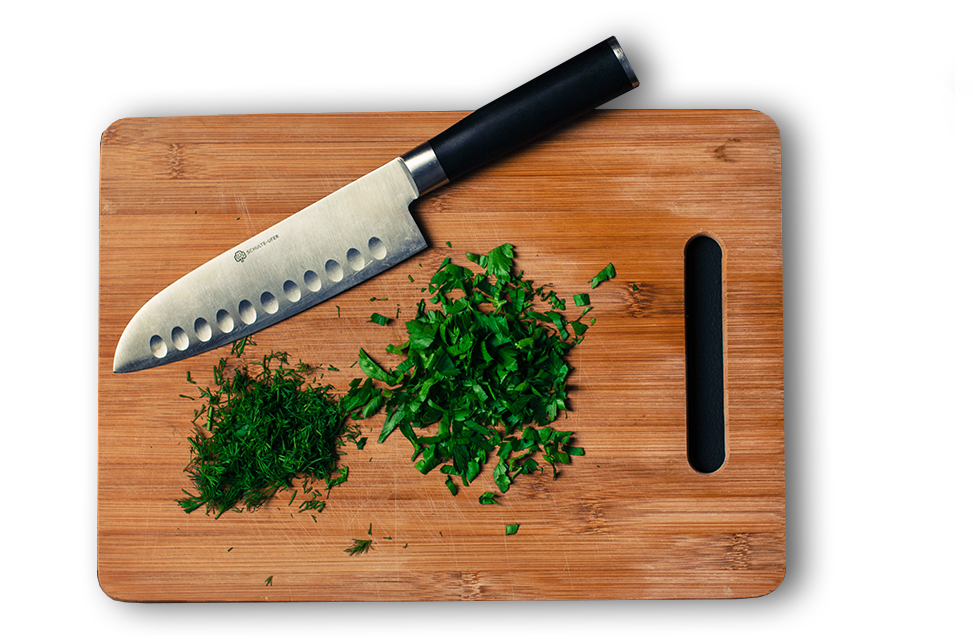
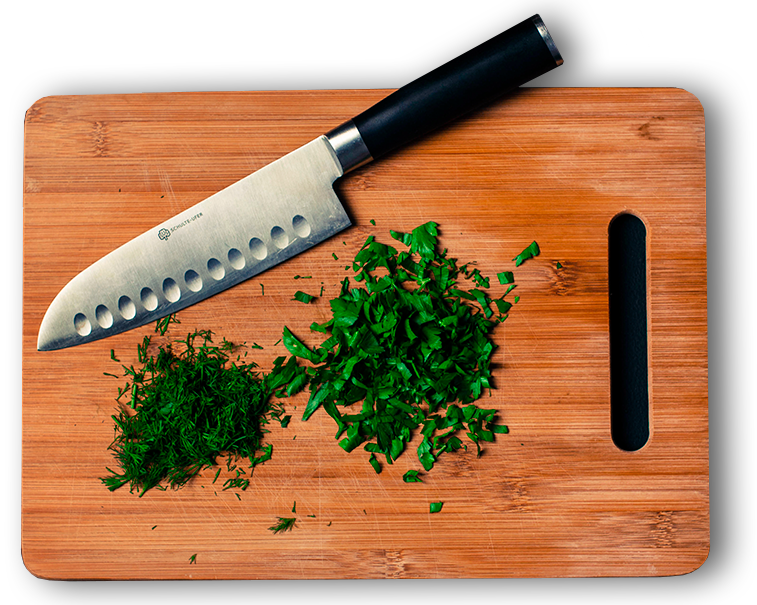
big-slider

diff --git a/lesson 8/style/style.css b/lesson 8/style/style.css
@@ -143,14 +143,13 @@ h1 {
 .intro-section {
     min-height: 100vh;
     position: relative;
-    background: #151b28;
+    background: rgba(21, 25, 39, 0.9);
     background-size: cover;
 }
 .slider-wrap {
-    height: 70%;
-    width: 70%;
+    max-width: 915px;
     margin: 0 auto;
-    background: url("../img/sligan-bg.png") center center no-repeat;
+    background: url("../img/sligan-bg.png") 50% 50% no-repeat;
     background-size: contain;
     display: -webkit-box;
     display: -moz-box;
@@ -159,7 +158,7 @@ h1 {
     display: flex;
 }
 .big-slider {
-    max-width: 615px;
+    width: 50%;
     margin: auto;
 }
 .slogan-part {
@@ -415,17 +414,19 @@ a.details-btn:hover {
 .display-none {
     display: none;
 }
-.reaching-list li:hover .display-none{
+.reaching-list li:hover .display-none {
     display: block;
 }
 .reaching-list li:hover .content-block {
      background: rgba(21, 27, 40, 0.9);
 }
+
 .content-block p {
     color: #fff;
     -webkit-align-self: center;
     align-self: center;
 }
+
                 /*------------------END-REACHING-SECTION---------------------*/
 
                 /*--------------------FOOTER---------------------------------*/
@@ -770,7 +771,7 @@ h4 {
         font-size: 27px;
     }
     .big-slider {
-        width: 90%;
+        /*width: 90%;*/
         left: 5%;
     }
     .flex-list li {
